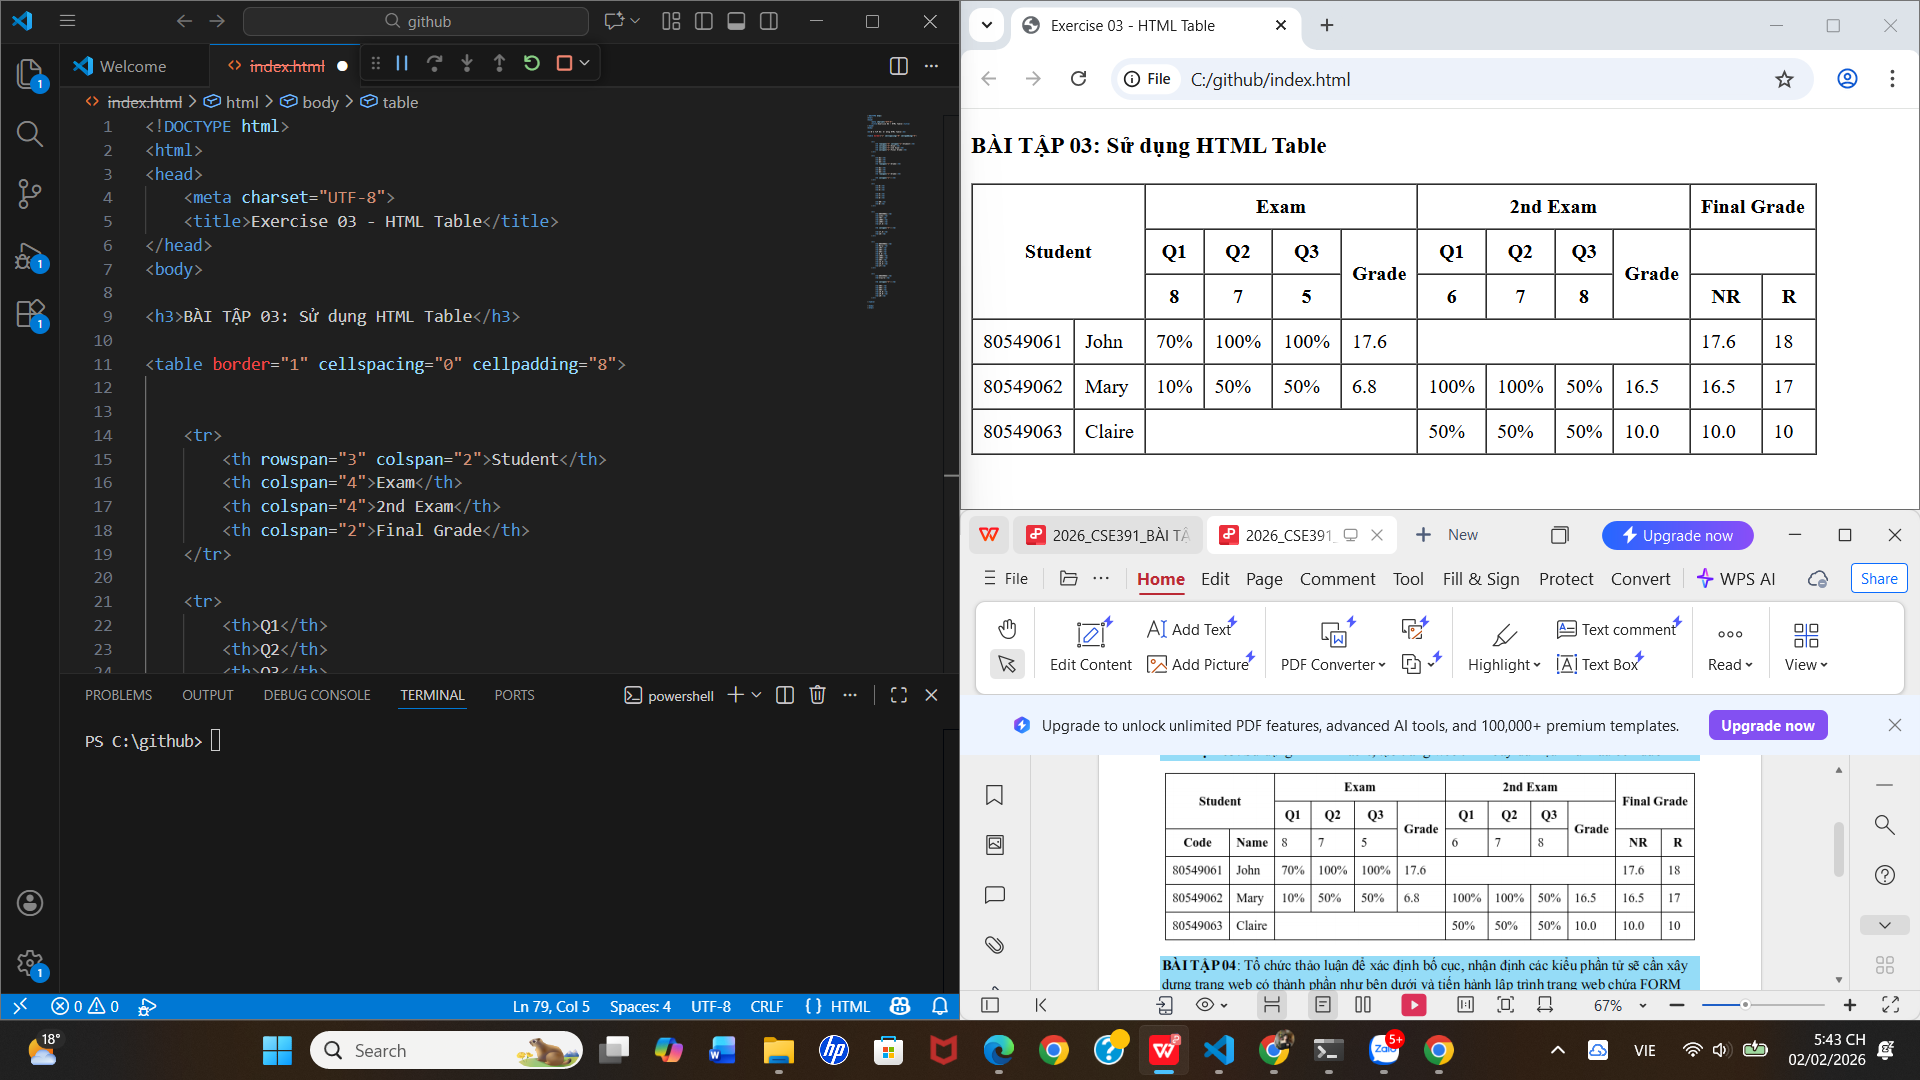
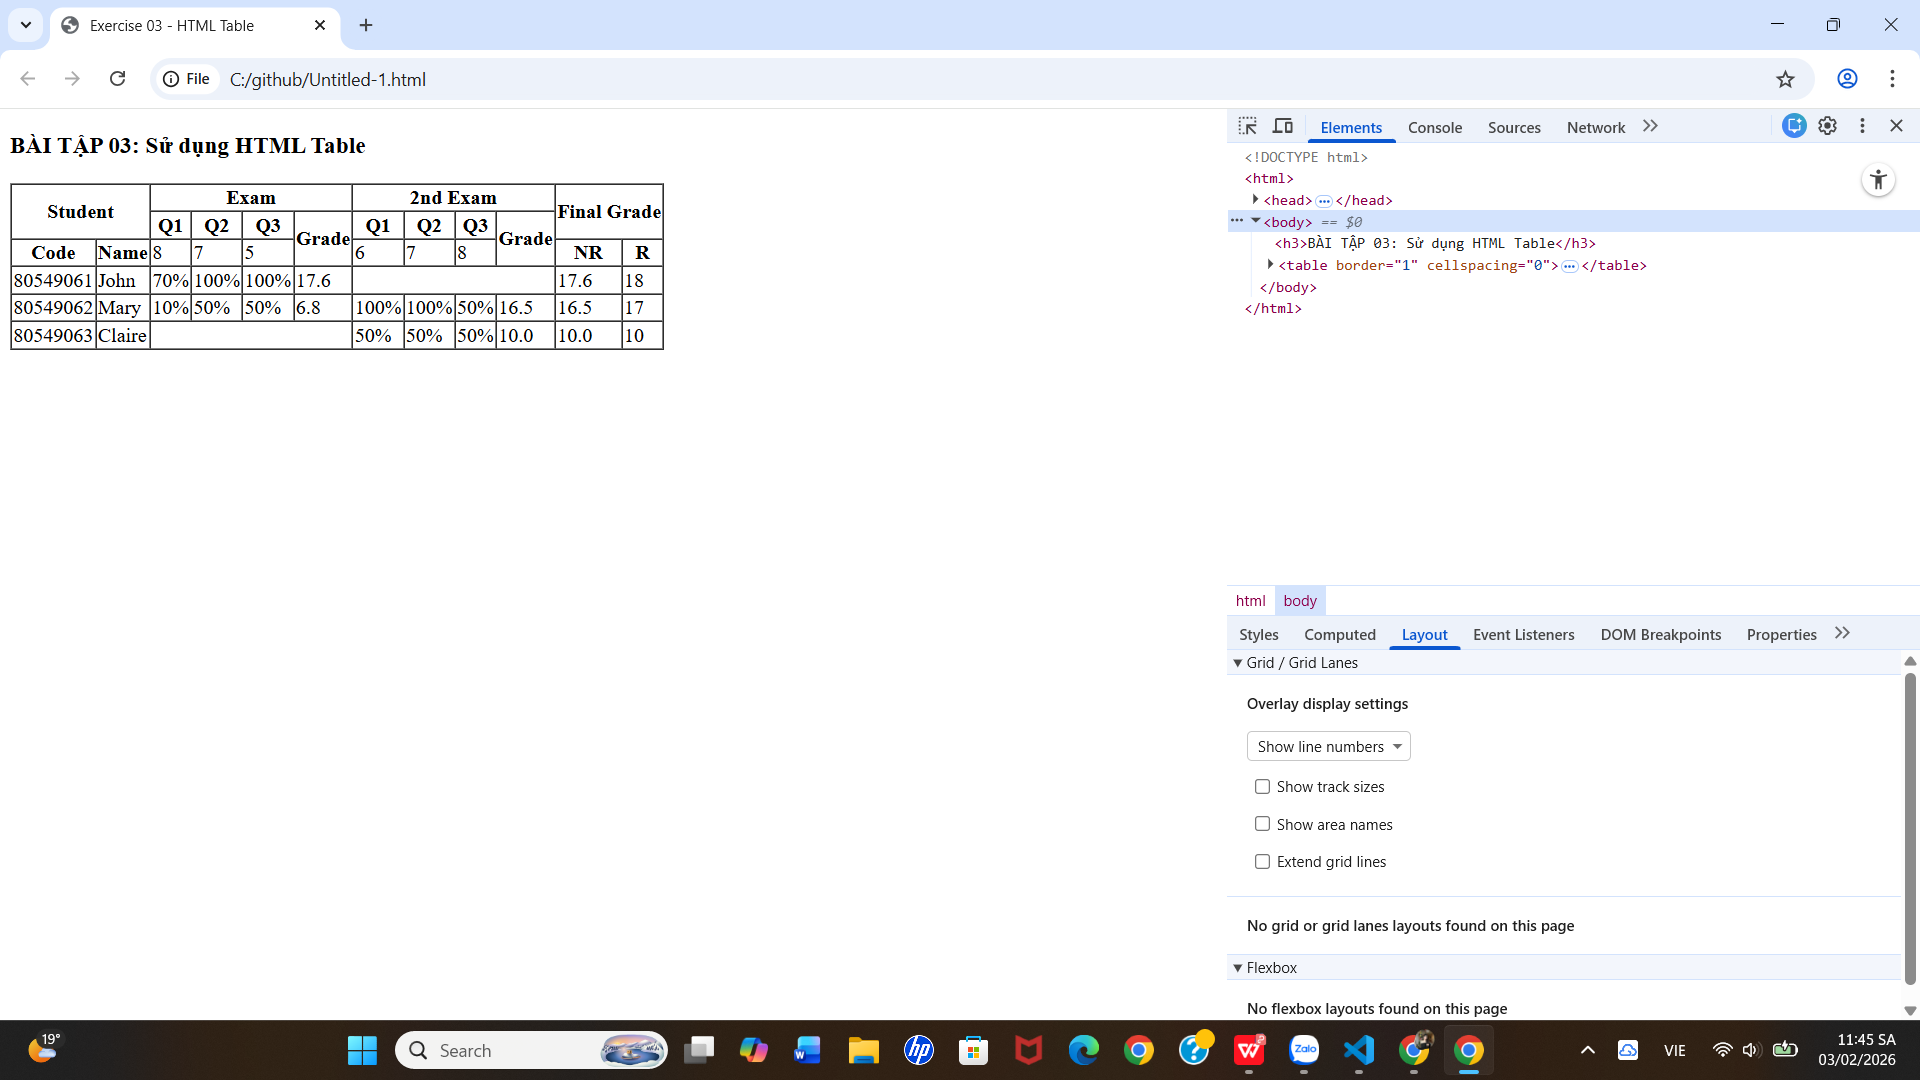
Add files via upload

diff --git a/Untitled-1.html b/Untitled-1.html
@@ -1,0 +1,103 @@
+<!DOCTYPE html>
+<html>
+<head>
+    <meta charset="UTF-8">
+    <title>Exercise 03 - HTML Table</title>
+</head>
+<body>
+
+<h3>BÀI TẬP 03: Sử dụng HTML Table</h3>
+
+<table border="1" cellspacing="0">
+   
+    <tr>
+        <th rowspan="2" colspan="2">Student</th>
+        <th colspan="4">Exam</th>
+        <th colspan="4">2nd Exam</th>
+        <th rowspan="2" colspan="2">Final Grade</th>
+    </tr>
+
+   
+    <tr>
+        <th>Q1</th>
+        <th>Q2</th>
+        <th>Q3</th>
+        <th rowspan="2">Grade</th>
+
+        <th>Q1</th>
+        <th>Q2</th>
+        <th>Q3</th>
+        <th rowspan="2">Grade</th>
+    </tr>
+
+   
+    <tr>
+        <th>Code</th>
+        <th>Name</th>
+
+        <td>8</td>
+        <td>7</td>
+        <td>5</td>
+
+        <td>6</td>
+        <td>7</td>
+        <td>8</td>
+
+        <th>NR</th>
+        <th>R</th>
+    </tr>
+
+   
+    <tr>
+        <td>80549061</td>
+        <td>John</td>
+
+        <td>70%</td>
+        <td>100%</td>
+        <td>100%</td>
+        <td>17.6</td>
+
+        <td colspan="4"></td>
+
+        <td>17.6</td>
+        <td>18</td>
+    </tr>
+
+    
+    <tr>
+        <td>80549062</td>
+        <td>Mary</td>
+
+        <td>10%</td>
+        <td>50%</td>
+        <td>50%</td>
+        <td>6.8</td>
+
+        <td>100%</td>
+        <td>100%</td>
+        <td>50%</td>
+        <td>16.5</td>
+
+        <td>16.5</td>
+        <td>17</td>
+    </tr>
+
+    
+    <tr>
+        <td>80549063</td>
+        <td>Claire</td>
+
+        <td colspan="4"></td>
+
+        <td>50%</td>
+        <td>50%</td>
+        <td>50%</td>
+        <td>10.0</td>
+
+        <td>10.0</td>
+        <td>10</td>
+    </tr>
+</table>
+
+</body>
+</html>
